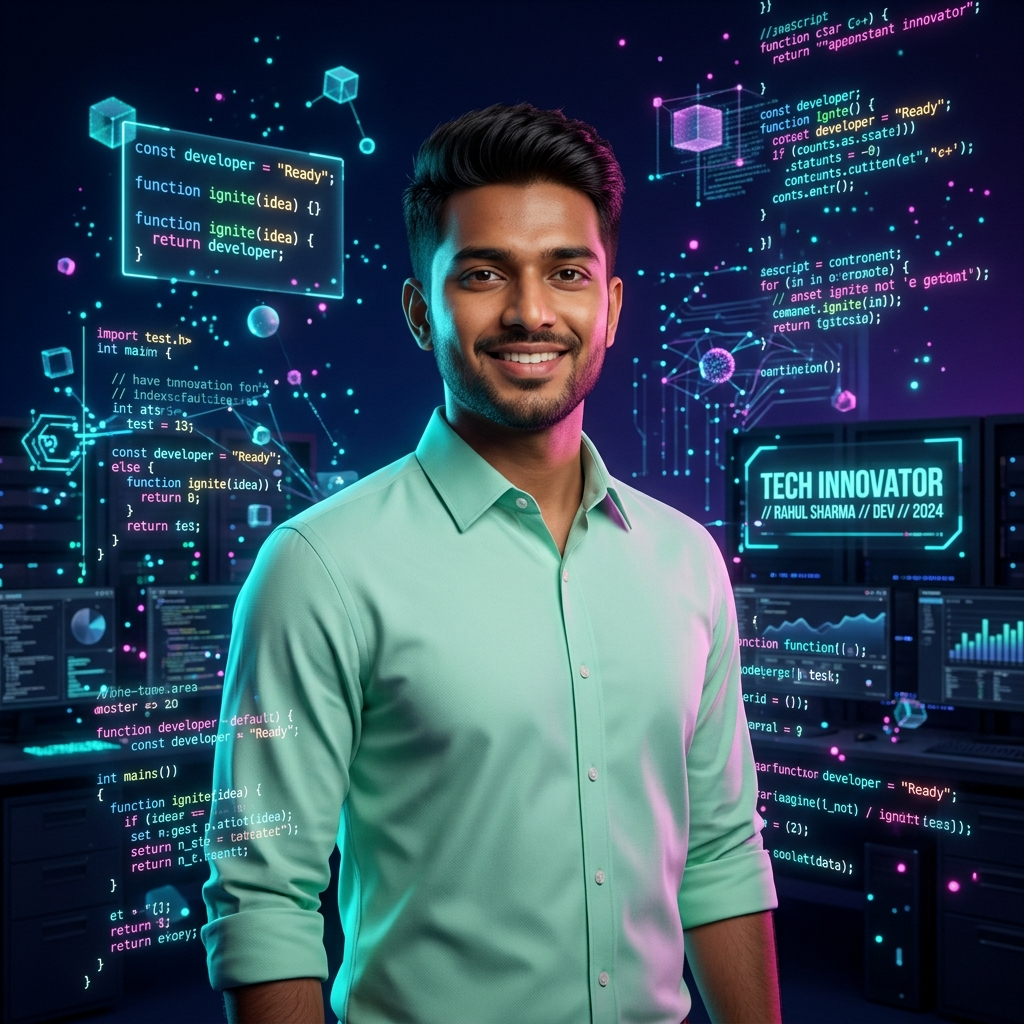
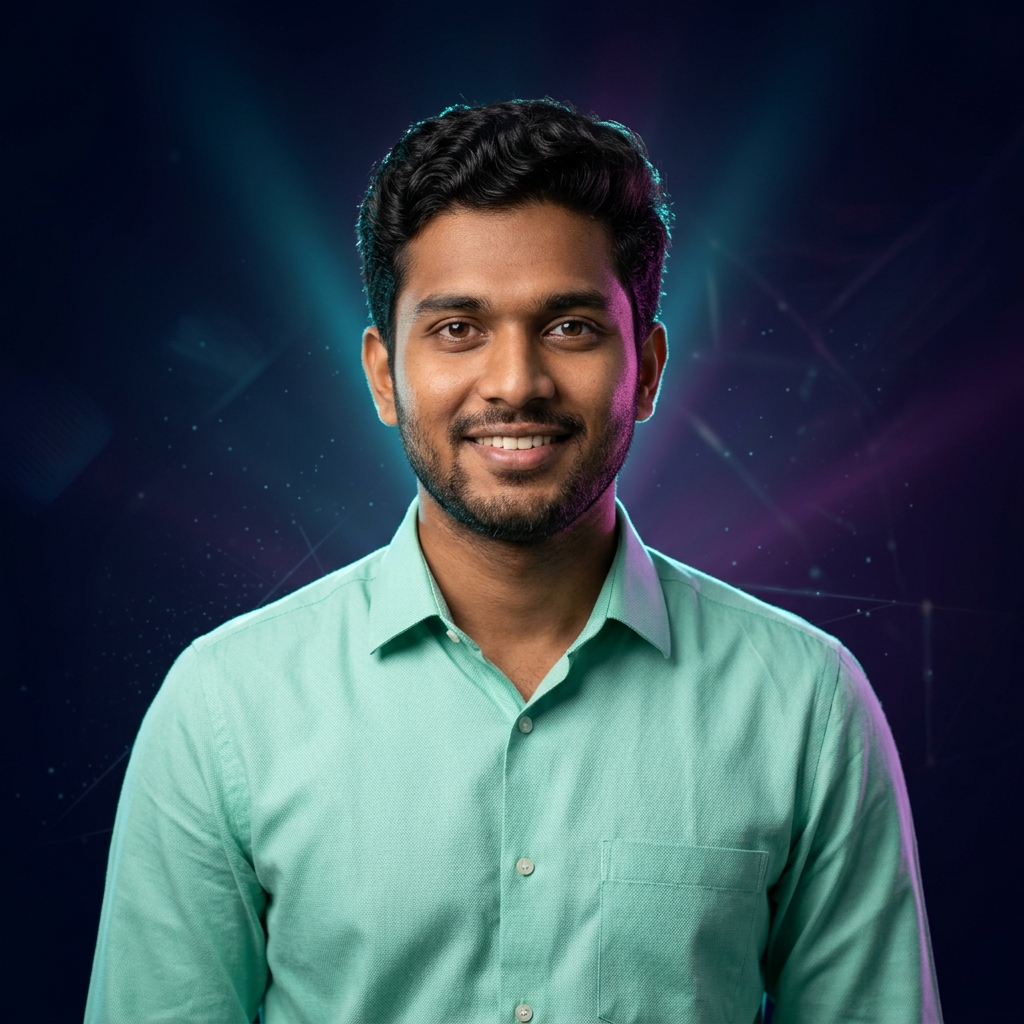
added profile photo

diff --git a/src/components/sections/Hero.tsx b/src/components/sections/Hero.tsx
@@ -50,71 +50,21 @@ function useTypingEffect(texts: string[], speed = 50, pause = 2000) {
   return { displayText, isTyping };
 }
 
-// Floating particles component
-const FloatingParticles = () => {
-  const particles = Array.from({ length: 20 }, (_, i) => ({
-    id: i,
-    x: Math.random() * 100,
-    y: Math.random() * 100,
-    size: Math.random() * 3 + 1,
-    duration: Math.random() * 8 + 6,
-    delay: Math.random() * 5,
-  }));
-
-  return (
-    <div className="absolute inset-0 overflow-hidden pointer-events-none">
-      {particles.map((p) => (
-        <motion.div
-          key={p.id}
-          className="absolute rounded-full"
-          style={{
-            left: `${p.x}%`,
-            top: `${p.y}%`,
-            width: p.size,
-            height: p.size,
-            background: p.id % 3 === 0
-              ? "rgba(0, 240, 255, 0.6)"
-              : p.id % 3 === 1
-              ? "rgba(255, 0, 110, 0.5)"
-              : "rgba(145, 94, 255, 0.5)",
-            boxShadow: p.id % 3 === 0
-              ? "0 0 6px rgba(0, 240, 255, 0.4)"
-              : p.id % 3 === 1
-              ? "0 0 6px rgba(255, 0, 110, 0.3)"
-              : "0 0 6px rgba(145, 94, 255, 0.3)",
-          }}
-          animate={{
-            y: [0, -30, 0, 20, 0],
-            x: [0, 15, -10, 5, 0],
-            opacity: [0.3, 0.8, 0.5, 0.7, 0.3],
-          }}
-          transition={{
-            duration: p.duration,
-            repeat: Infinity,
-            delay: p.delay,
-            ease: "easeInOut",
-          }}
-        />
-      ))}
-    </div>
-  );
-};
-
 const Hero = () => {
   const name = config.hero.name;
   const nameLetters = name.split("");
   const { displayText, isTyping } = useTypingEffect(config.hero.p, 35);
   const containerRef = useRef<HTMLDivElement>(null);
 
-  // Mouse parallax for orbs & image
+  // Mouse parallax
   const mouseX = useMotionValue(0);
   const mouseY = useMotionValue(0);
   const orbX1 = useTransform(mouseX, [-500, 500], [-30, 30]);
   const orbY1 = useTransform(mouseY, [-500, 500], [-20, 20]);
   const orbX2 = useTransform(mouseX, [-500, 500], [20, -20]);
   const orbY2 = useTransform(mouseY, [-500, 500], [15, -15]);
-  const imgX = useTransform(mouseX, [-500, 500], [-8, 8]);
-  const imgY = useTransform(mouseY, [-500, 500], [-6, 6]);
+  const imgRotateX = useTransform(mouseY, [-500, 500], [3, -3]);
+  const imgRotateY = useTransform(mouseX, [-500, 500], [-3, 3]);
 
   const handleMouseMove = useCallback(
     (e: React.MouseEvent) => {
@@ -142,9 +92,6 @@ const Hero = () => {
         className="orb orb-magenta absolute top-1/3 -right-20 h-[400px] w-[400px] animate-float-delayed"
       />
       <div className="orb orb-purple absolute bottom-20 left-1/3 h-[300px] w-[300px] animate-float" />
-
-      {/* Floating particles */}
-      <FloatingParticles />
 
       {/* Hero content — split layout */}
       <div
@@ -236,81 +183,78 @@ const Hero = () => {
               />
             </p>
 
-            {/* Tech badges */}
+            {/* CTA Buttons */}
             <motion.div
               initial={{ opacity: 0, y: 20 }}
               animate={{ opacity: 1, y: 0 }}
-              transition={{ delay: 2.5, duration: 0.8 }}
-              className="mt-8 flex flex-wrap gap-3 pointer-events-auto"
+              transition={{ delay: 2.2, duration: 0.8 }}
+              className="mt-10 flex flex-wrap items-center gap-4 pointer-events-auto"
             >
-              {["Full-Stack Dev", "React / Next.js", "Node.js", "AI / ML"].map(
-                (tag, i) => (
-                  <motion.span
-                    key={tag}
-                    initial={{ opacity: 0, scale: 0.8 }}
-                    animate={{ opacity: 1, scale: 1 }}
-                    transition={{ delay: 2.5 + i * 0.15, duration: 0.5 }}
-                    className="hero-tech-badge"
-                  >
-                    {tag}
-                  </motion.span>
-                )
-              )}
+              <a
+                href="#work"
+                className="hero-cta-primary"
+              >
+                <span className="relative z-10">View My Work</span>
+              </a>
+              <a
+                href="#contact"
+                className="hero-cta-secondary"
+              >
+                Get In Touch
+              </a>
             </motion.div>
           </div>
         </div>
 
-        {/* Right side — Hero Image */}
+        {/* Right side — Hero Portrait */}
         <motion.div
-          initial={{ opacity: 0, scale: 0.8, x: 60 }}
-          animate={{ opacity: 1, scale: 1, x: 0 }}
-          transition={{ delay: 0.8, duration: 1.2, ease: [0.2, 0.65, 0.3, 0.9] }}
-          className="hero-image-container hidden md:flex flex-1 items-center justify-center relative"
+          initial={{ opacity: 0, scale: 0.85 }}
+          animate={{ opacity: 1, scale: 1 }}
+          transition={{ delay: 0.6, duration: 1.2, ease: [0.2, 0.65, 0.3, 0.9] }}
+          className="hero-image-container hidden lg:flex flex-1 items-center justify-center relative"
         >
-          {/* Animated glow rings */}
-          <div className="hero-glow-ring hero-glow-ring-1" />
-          <div className="hero-glow-ring hero-glow-ring-2" />
-          <div className="hero-glow-ring hero-glow-ring-3" />
+          {/* Ambient glow behind photo */}
+          <div className="hero-ambient-glow" />
 
-          {/* Background glow behind image */}
-          <div className="hero-image-glow" />
-
-          {/* The portrait image */}
+          {/* Animated border ring */}
           <motion.div
-            style={{ x: imgX, y: imgY }}
-            className="hero-portrait-wrapper"
+            className="hero-border-ring"
+            style={{ rotateX: imgRotateX, rotateY: imgRotateY }}
+          />
+
+          {/* Profile photo */}
+          <motion.div
+            className="hero-photo-frame"
+            style={{ rotateX: imgRotateX, rotateY: imgRotateY }}
           >
             <img
               src={anuragHero}
-              alt="Anurag Verma - Full Stack Developer"
-              className="hero-portrait-img"
+              alt="Anurag Verma - Full Stack Developer & AI Engineer"
+              className="hero-photo"
+              loading="eager"
             />
-            {/* Gradient overlay at bottom for seamless blend */}
-            <div className="hero-portrait-overlay" />
+            {/* Bottom gradient blend */}
+            <div className="hero-photo-fade" />
           </motion.div>
 
-          {/* Floating tech icons around the image */}
+          {/* Decorative code-like accent lines */}
           <motion.div
-            className="hero-floating-icon hero-floating-icon-1"
-            animate={{ y: [-8, 8, -8], rotate: [0, 10, 0] }}
-            transition={{ duration: 4, repeat: Infinity, ease: "easeInOut" }}
-          >
-            <span>⚛</span>
-          </motion.div>
+            className="hero-accent-line hero-accent-line-top"
+            initial={{ scaleX: 0 }}
+            animate={{ scaleX: 1 }}
+            transition={{ delay: 1.5, duration: 0.8, ease: "easeOut" }}
+          />
           <motion.div
-            className="hero-floating-icon hero-floating-icon-2"
-            animate={{ y: [8, -8, 8], rotate: [0, -10, 0] }}
-            transition={{ duration: 5, repeat: Infinity, ease: "easeInOut", delay: 1 }}
-          >
-            <span>🚀</span>
-          </motion.div>
-          <motion.div
-            className="hero-floating-icon hero-floating-icon-3"
-            animate={{ y: [-6, 10, -6], x: [-4, 4, -4] }}
-            transition={{ duration: 6, repeat: Infinity, ease: "easeInOut", delay: 2 }}
-          >
-            <span>💻</span>
-          </motion.div>
+            className="hero-accent-line hero-accent-line-bottom"
+            initial={{ scaleX: 0 }}
+            animate={{ scaleX: 1 }}
+            transition={{ delay: 1.8, duration: 0.8, ease: "easeOut" }}
+          />
+
+          {/* Small decorative dots */}
+          <div className="hero-dot hero-dot-1" />
+          <div className="hero-dot hero-dot-2" />
+          <div className="hero-dot hero-dot-3" />
         </motion.div>
       </div>
 
